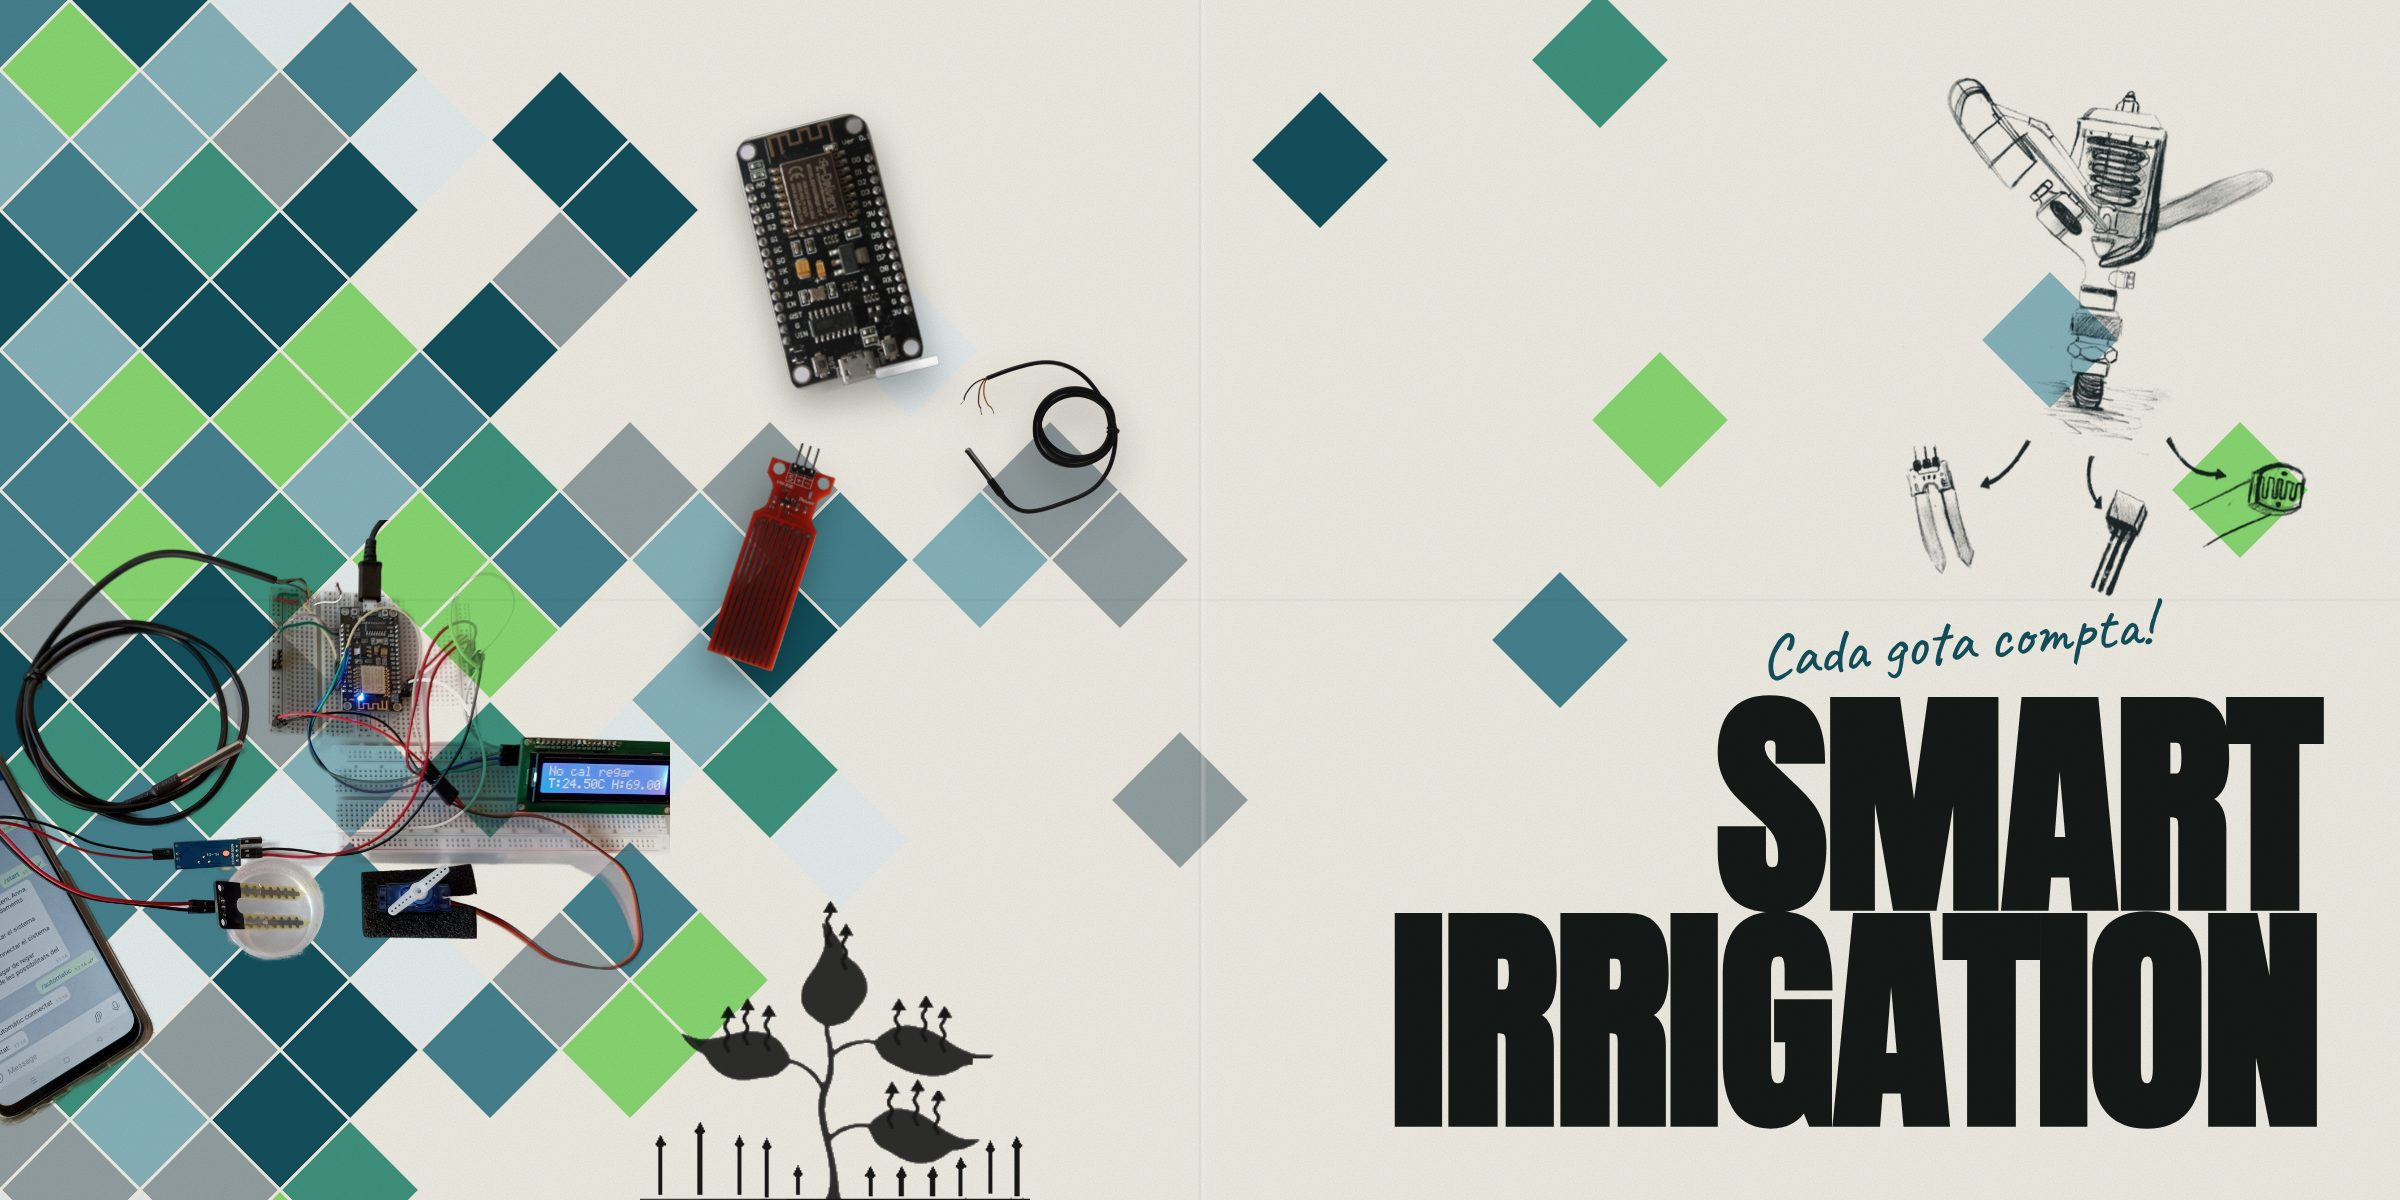
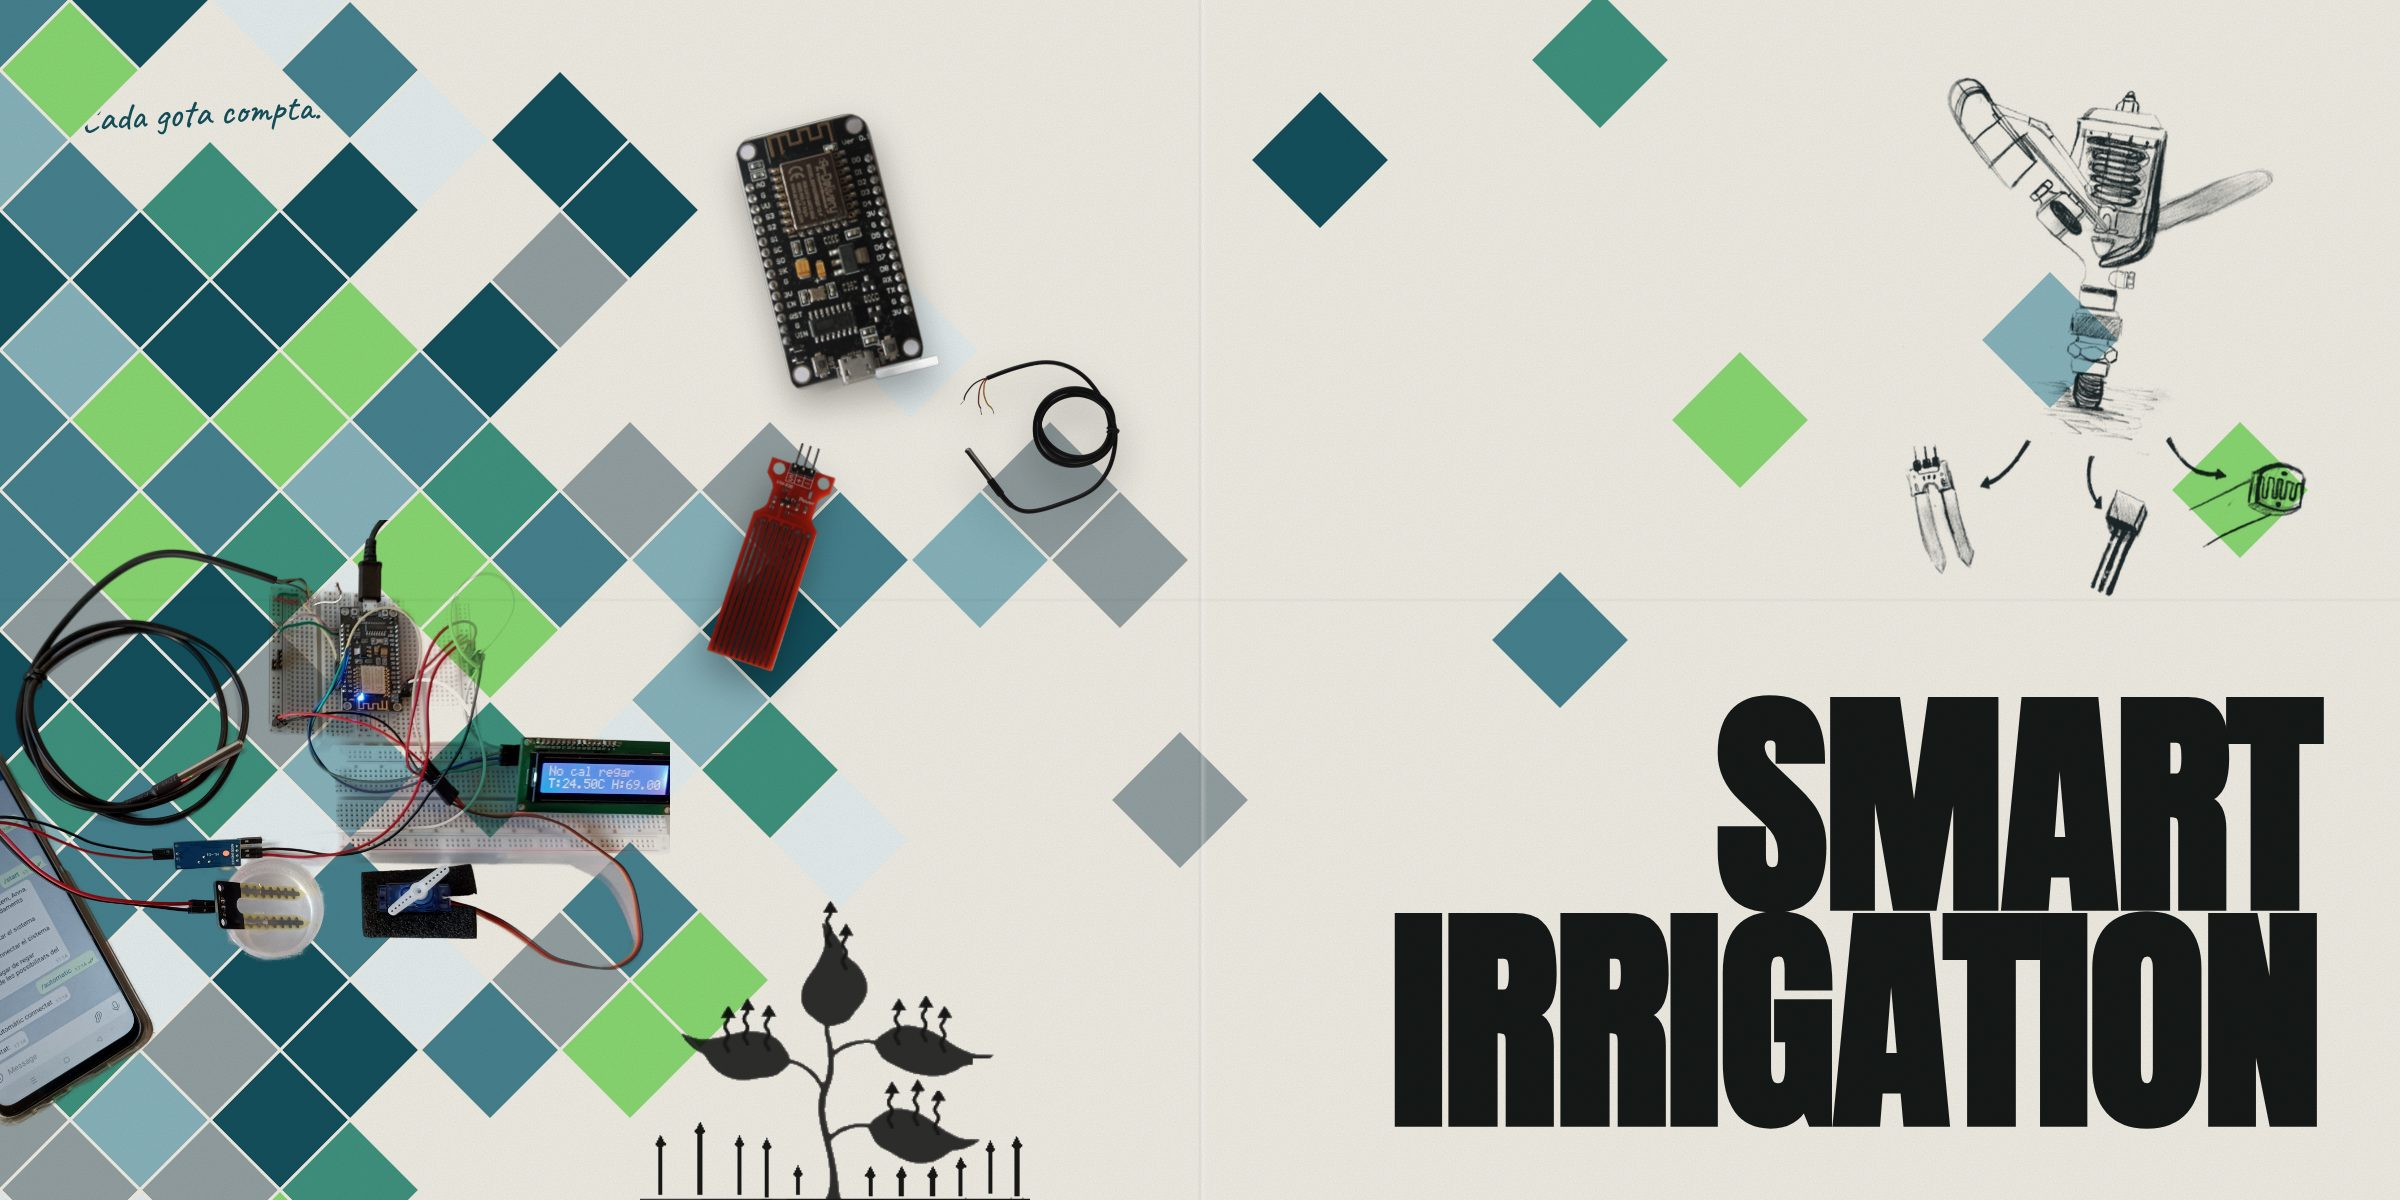
Billboard: handwriting tucked under the top-left tiles, green tile nudged right
Claude-Session: https://claude.ai/code/session_01PchemtfrPnXx57Zg6o9MzX

Changed region(s): [[0.0312, 0.0, 0.1562, 0.185], [0.6562, 0.2775, 0.75, 0.4008], [0.7188, 0.4933, 0.9062, 0.555]]

diff --git a/billboard/smart-irrigation.html b/billboard/smart-irrigation.html
@@ -37,7 +37,7 @@
   .sketch { left: 1900px; top: 90px; width: 420px; height: 520px; z-index: 5; mix-blend-mode: multiply;
     background: url("../images/smart-irrigation/sketch.png") center top / contain no-repeat; transform: rotate(6deg); }
   .plant { left: 640px; bottom: -4px; width: 390px; z-index: 4; filter: brightness(0); opacity: .9; } /* drawn in black, between the two layers of tiles */
-  .hand { left: 1760px; bottom: 520px; z-index: 6; margin: 0; font-family: Caveat, cursive; font-size: 62px; color: var(--ink); transform: rotate(-5deg); }
+  .hand { left: 80px; top: 94px; z-index: 1; margin: 0; font-family: Caveat, cursive; font-size: 38px; line-height: 1; color: var(--ink); transform: rotate(-3deg); }
   .comp { z-index: 8; filter: drop-shadow(0 18px 18px rgba(0,0,0,.35)); }
   .c-node { left: 760px; top: 120px; width: 150px; transform: rotate(-14deg); }
   .c-temp { left: 960px; top: 360px; width: 160px; }
@@ -75,10 +75,10 @@
     for (let x = (r % 2) * H; x < 1300; x += 2 * H) {
       const y = r * H, edge = Math.min(1, x / 1450);
       const bulge = Math.abs(y - 560) / 700;            // band follows the middle of the board
-      if (x < 420 || rnd() < 1 - edge * edge * 1.15 - bulge * 0.9) { const d = dia(x, y, C[Math.floor(rnd() * C.length)]); if (rnd() < .3) front += d; else out += d; }
+      if (x < 420 || rnd() < 1 - edge * edge * 1.15 - bulge * 0.9) { const d = dia(x, y, C[Math.floor(rnd() * C.length)]); const top = rnd() < .3; if ((y === 140 && (x === 140 || x === 280)) || (y === 70 && x === 210)) continue; /* room for the handwriting */ if (top) front += d; else out += d; }
     }
   }
-  out += dia(1660, 420, "#88d671") + dia(1560, 640, "#45818e") + dia(1320, 160, "#134f5c") +
+  out += dia(1740, 420, "#88d671") + dia(1560, 640, "#45818e") + dia(1320, 160, "#134f5c") +
     dia(2050, 340, "#87b2bb") + dia(2240, 490, "#88d671") + /* behind the sketch */
     dia(1180, 800, "#929ea0") + dia(1600, 60, "#3e917e");
   document.getElementById("tiles").innerHTML = out;
